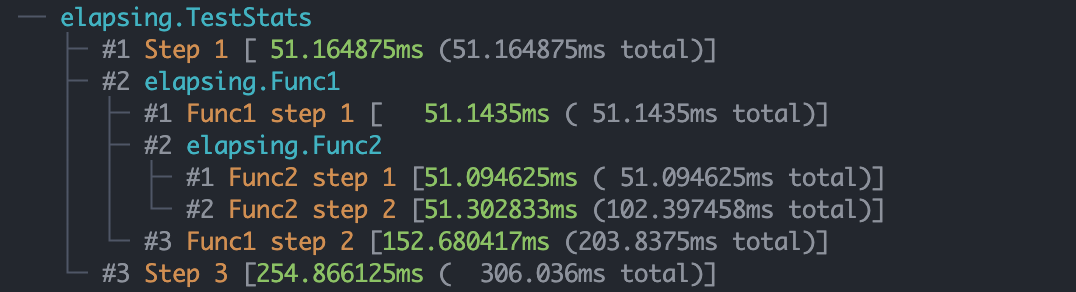
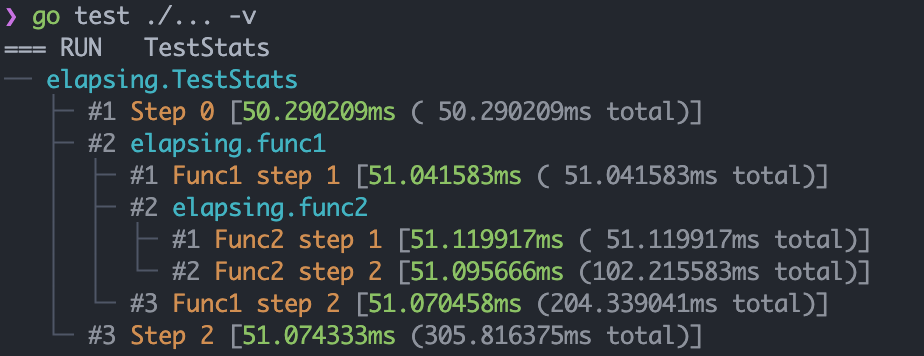
docs: updated README.md

Changed region(s): [[0.0, 0.0, 0.9394, 0.9863]]

diff --git a/README.md b/README.md
@@ -150,14 +150,14 @@ It will output the following result with colors:
 
 ```shell
 ── elapsing.TestStats
-   ├─ #1 Step 1 [ 51.164875ms (51.164875ms total)]
-   ├─ #2 elapsing.Func1
-   │  ├─ #1 Func1 step 1 [   51.1435ms ( 51.1435ms total)]
-   │  ├─ #2 elapsing.Func2
-   │  │  ├─ #1 Func2 step 1 [51.094625ms ( 51.094625ms total)]
-   │  │  └─ #2 Func2 step 2 [51.302833ms (102.397458ms total)]
-   │  └─ #3 Func1 step 2 [152.680417ms (203.8375ms total)]
-   └─ #3 Step 3 [254.866125ms (  306.036ms total)]
+   ├─ #1 Step 0 [50.290209ms ( 50.290209ms total)]
+   ├─ #2 elapsing.func1
+   │  ├─ #1 Func1 step 1 [51.041583ms ( 51.041583ms total)]
+   │  ├─ #2 elapsing.func2
+   │  │  ├─ #1 Func2 step 1 [51.119917ms ( 51.119917ms total)]
+   │  │  └─ #2 Func2 step 2 [51.095666ms (102.215583ms total)]
+   │  └─ #3 Func1 step 2 [51.070458ms (204.339041ms total)]
+   └─ #3 Step 2 [51.074333ms (305.816375ms total)]
 ```
 
 Screenshot with colors:
